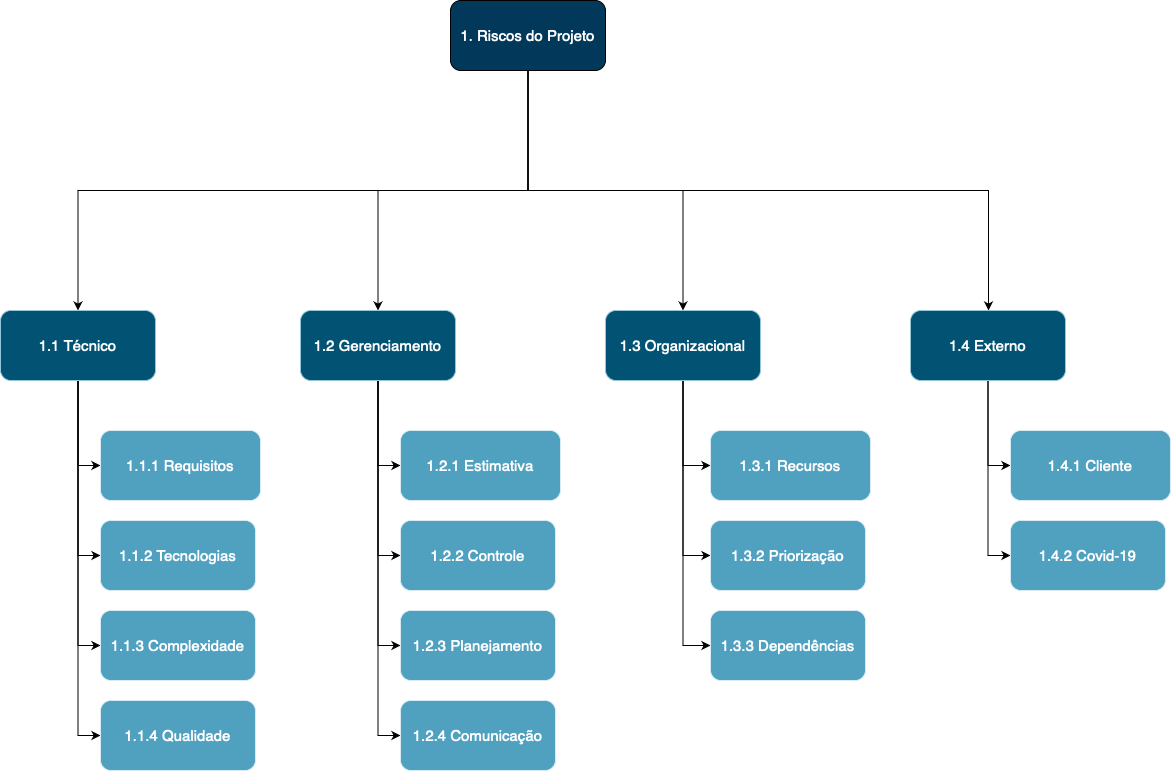
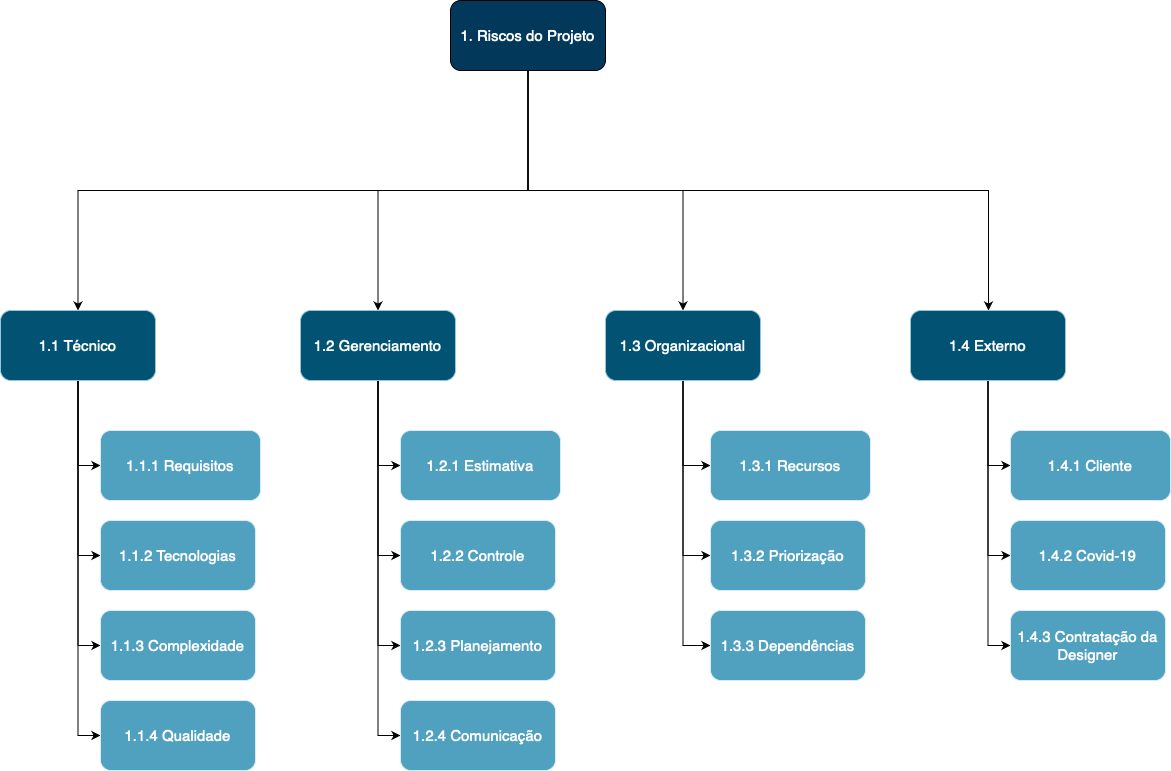
#90 - Update Risk Plan, Add BurnDown Risk charts

Changed region(s): [[0.8301, 0.7782, 1.0, 0.9027]]

diff --git a/docs/Project/RiskPlan.md b/docs/Project/RiskPlan.md
@@ -2,7 +2,8 @@
 
 |    Data    | Versão |                Descrição                |                     Autor                     |
 | :--------: | :----: | :-------------------------------------: | :-------------------------------------------: |
-| 13/09/2021 |  1.0   | Criação da primeira versão do documento do Plano de Gerenciamento de Riscos | [Lucas Fellipe](https://github.com/lucasfcm9) |
+| 13/08/2021 |  1.0   | Criação da primeira versão do documento do Plano de Gerenciamento de Riscos | [Lucas Fellipe](https://github.com/lucasfcm9) |
+| 09/09/2021 |  1.1   | Atualização da EAR e da identificação dos riscos | [Lucas Fellipe](https://github.com/lucasfcm9) |
 
 ## 1. Introdução
 
@@ -110,22 +111,24 @@ Risco <= 5: Baixo.
 | :--: | :----------------------------------------------------------- | :----------------------------------------------------------- | :----------------------------------------------------------- | :----------------------- |
 |  1   |        o projeto não atender aos requisitos propostos        | do levantamento de requisitos falho e falta de validação constante | atraso na entrega do produto final e redefinição dos requisitos |        Requisitos        |
 |  2   |           a tecnologia usada apresentar problemas            |                     do seu proprietário                      | atraso na entrega do produto final e troca de tecnologia equivalente |       Tecnologias        |
-|  3   | a equipe de desenvolvimento não se adaptar a tecnologia escolhida |  da falta de conhecimento ou da indisponibilidade da equipe  |               que o produto não será entregue                |       Complexidade       |
-|  4   |         houverem dificuldades em realizar os testes          |                   da falta de conhecimento                   |         atraso na entrega das histórias de usuários          |       Complexidade       |
-|  5   |                houver mudanças arquiteturais                 |               da falha na realização do escopo               | mais retrabalho, como alteração nas histórias de usuários planejadas, mudanças de infra e mudanças a nível de código |       Complexidade       |
-|  6   |                   houver mudança de escopo                   | da falha na realização do escopo e na elicitação dos requisitos |         refatoração dos requisitos e da documentação         |       Planejamento       |
-|  7   |          o produto final estiver em baixa qualidade          |                 da equipe de desenvolvimento                 |                refatoração de todo o produto                 |        Qualidade         |
-|  8   |   as atividades não forem concretizadas no prazo definido    |       da falta de integração dos integrantes da equipe       |                atraso na baseline do projeto                 | Estimativa/Dependências |
-|  9   |          houver histórias de usuário mal definidas           |             da falha de elicitação de requisitos             | atraso na entrega do produto final e necessidade de refatoração das histórias |        Estimativa        |
-|  10  |                 houver sprint mal planejada                  |                 de histórias mal planejadas                  | atraso na entrega do produto final, dificuldade de compreensão das histórias e necessidade de refatoração |  Estimativa/Priorização  |
-|  11  |            houver falta de comunicação da equipe             |                da indisponibilidade da equipe                | dificuldade no gerenciamento e falta de alinhamento da equipe |       Comunicação        |
-|  12  |           membros da equipe abandonarem o projeto            |             de desmotivação e indisponibilidade              |       sobrecarga entre os membros da equipe restantes        |         Recursos         |
-|  13  | a qualidade do *software* não atender as expectativas do cliente | má implementação e erros na parte de elicitação de requisitos | descontentamento do cliente e possibilidade de cancelamento do projeto |    Cliente/Qualidade     |
-|  14  |          houver perdas ou defeitos em equipamentos           |                       mal uso e roubos                       |                 atraso na entrega do projeto                 |         Recursos         |
-|  15  |               houver o cancelamento do projeto               |               da falta de interesse do cliente               |           interrupção e/ou cancelamento do projeto           |         Cliente          |
-|  16  |                     algum membro não poder participar das atividades e reuniões                      | de contrair a doença COVID-19                    |             Atraso na entrega das atividades       | Estimativa/Dependências
-|  17  | a equipe não conseguir automatizar o <i>deploy</i> e a integração contínua |        da falta de conhecimento ou indisponibilidade         |  atraso na entrega do produto final em ambiente de produção  |       Complexidade       |
-|  18  |          houver imaturidade na gerência do projeto           |     de negligências e abandono de integrantes da equipe      |  diminuição da qualidade do projeto e atraso das histórias   | Estimativa/Dependências  |
+|  3   | a equipe de desenvolvimento não se adaptar as tecnologias escolhidas |  da falta de conhecimento ou da indisponibilidade da equipe  |               que o produto não será entregue                |       Complexidade       |
+|  4   | o arquiteto não conseguir planejar e garantir a execução da arquitetura |  da falta de conhecimento das tecnologias do projeto  |               dificuldade na organização e atraso no desenvolvimento                |       Complexidade       |
+|  5   |         houver dificuldades em realizar os testes          |                   da falta de conhecimento                   |         atraso na entrega das histórias de usuários          |       Complexidade       |
+|  6   |                houver mudanças arquiteturais                 |               da falha na realização do escopo               | mais retrabalho, como alteração nas histórias de usuários planejadas, mudanças de infra e mudanças a nível de código |       Complexidade       |
+|  7   |                a equipe não conseguir automatizar o *deploy* e a integração contínua                 |               da falta de conhecimento               | atraso na entrega do produto em ambiente de produção |       Complexidade       |
+|  8  |                   houver mudança de escopo                   | da falha na realização do escopo e na elicitação dos requisitos |         refatoração dos requisitos e da documentação         |       Planejamento       |
+|  9   |          o produto final estiver em baixa qualidade          |                 da equipe de desenvolvimento                 |                refatoração de todo o produto                 |        Qualidade         |
+|  10   |   as atividades não forem concretizadas no prazo definido    |       da falta de integração dos integrantes da equipe       |                atraso na baseline do projeto                 | Estimativa/Dependências |
+|  11   |          houver histórias de usuário mal definidas           |             da falha de elicitação de requisitos             | atraso na entrega do produto final e necessidade de refatoração das histórias |        Estimativa        |
+|  12  |                 houver sprint mal planejada                  |                 de histórias mal planejadas                  | atraso na entrega do produto final, dificuldade de compreensão das histórias e necessidade de refatoração |  Estimativa/Priorização  |
+|  13  |            houver falta de comunicação da equipe             |                da indisponibilidade da equipe                | dificuldade no gerenciamento e falta de alinhamento da equipe |       Comunicação        |
+|  14  |           membros da equipe abandonarem o projeto            |             de desmotivação e indisponibilidade              |       sobrecarga entre os membros da equipe restantes        |         Recursos         |
+|  15  | a qualidade do *software* não atender as expectativas do cliente | má implementação e erros na parte de elicitação de requisitos | descontentamento do cliente e possibilidade de cancelamento do projeto |    Cliente/Qualidade     |
+|  16  |          houver perdas ou defeitos em equipamentos           |                       mal uso e roubos                       |                 atraso na entrega do projeto                 |         Recursos         |
+|  17  |               houver o cancelamento do projeto               |               da falta de interesse do cliente               |           interrupção e/ou cancelamento do projeto           |         Cliente          |
+|  18  |                     algum membro não poder participar das atividades e reuniões                      | de contrair a doença COVID-19                    |             Atraso na entrega das atividades       | Estimativa/Dependências
+|  19  |          não ocorrer a contratação d@ *Designer* para a realização do protótipo de alta fidelidade           |     de variáveis externas ou por não encontrar um profissional adequado dentro do prazo estipulado      |  atraso na entrega do produto e/ou interrupção do projeto   | Cliente/Dependências  |
+|  20  |          houver imaturidade na gerência do projeto           |     de negligências e abandono de integrantes da equipe      |  diminuição da qualidade do projeto e atraso das histórias   | Estimativa/Dependências  |
 
 
 
@@ -136,21 +139,27 @@ Risco <= 5: Baixo.
 |  1   | Muito Alto |  Muito Alta   |    25     | Revalidar todo os requisitos com o *Product Owner* e com o cliente | Realizar constantes reuniões com os integrantes da equipe, com o cliente e pesquisas necessárias para obtenção de conhecimento e compreensão sobre o escopo do projeto |
 |  2   | Muito Alto |     Baixa     |    10     |         Trocar para uma nova tecnologia equivalente          |             Escolher uma tecnologia com suporte              |
 |  3   |    Alto    |     Alta      |    16     | Indicar treinamentos para a equipe de desenvolvimento sobre a tecnologia escolhida | Estabelecer treinamentos constantes sobre a tecnologia escolhida |
-|  4   | Muito Alto |     Alta      |    20     | Indicar treinamentos para a equipe de desenvolvimento sobre testes |       Estabelecer treinamentos constantes sobre testes       |
-|  5   | Muito Alto |     Média     |    15     | Realizar a mudança de Arquitetura do projeto buscando outras tecnologias capazes de solucionar os problemas gerados | Buscar conhecimento com professores, alunos e pessoas fora do ambiente universitária, novas pesquisas e pensamentos críticos a respeito da arquitetura. |
-|  6   | Muito Alto |     Baixa     |    10     |    Redefinir o mais rápido possível as mudanças de escopo    |         Manter a comunicação constante com o cliente         |
-|  7   | Muito Alto |  Muito Alta   |    25     | Realizar a refatoração de código, testes e validação com o cliente | Realizar treinamentos de todas as tecnologias utilizadas, além de garantir a realização de testes, boas práticas de programação e validações constantes com o cliente |
-|  8   | Muito Alto |  Muito Alta   |    25     | Realizar a entrega das histórias na próxima <i>Sprint</i> como dívida técnica | Planejar as atividades de forma mais coerente e dividi-las nas *sprints* com base nos pesos e dificuldade definida no <i>Planning Poker</i> |
-|  9   |    Alto    |  Muito Alta   |    20     | Realizar uma refatoração das histórias para que entrem em conformidade com os requisitos pré-definidos | Realizar constantes reuniões entre os integrantes da equipe e o cliente e, além disso, realizar pesquisas necessárias para obtenção de conhecimento e compreensão sobre o escopo do projeto |
-|  10  |    Alto    |     Alta      |    16     | Realizar o replanejamento da <i>Sprint</i> utilizando a priorização do <i>Backlog</i> do Produto | Montar o <i>Backlog</i> da <i>Sprint</i> utilizando a priorização |
-|  11  | Muito Alto |     Alta      |    20     | Promover as mudanças necessárias, desde a realização de <i>Daily meetings</i> mais objetivas a mudanças de ferramentas para comunicação | Criando o plano de comunicação em que a equipe concorde totalmente |
-|  12  |    Alto    |  Muito Alta   |    20     | Realocar as tarefas pré-definidas entre os membros restantes | Conversar com a equipe a fim de reafirmar a importância do projeto para que a equipe o priorize |
-|  13  | Muito Alto |  Muito Alta   |    25     | Realizar a refatoração do código e dos testes e, além disso, validações com o cliente | Realizar treinamento de todas as tecnologias utilizadas, garantir a realização de testes, boas práticas de programação e validações com o cliente |
-|  14  |    Alto    |     Média     |    12     | Realocar as tarefas entre os membros da equipe que possuem equipamentos sem defeitos |      Incentivar a manutenção recorrente de equipamentos      |
-|  15  | Muito Alto |  Muito baixa  |     5     |  Oferecer a melhor possibilidade de produto para o cliente   |          Manter comunicação constante com o cliente          |
-|  16  | Muito Alto |     Média     |    15     |  Realocar as atividades entre os membros da equipe          |                                  Conversar com a equipe a fim de reatribuir todas as tarefas enquanto o(s) membro(s) está(ão) ausente(s)                           |
-|  17  |    Alto    |     Alta      |    16     | Procurar ajuda de professores, alunos e pessoas fora do ambiente universitário e aumentar o tempo de estudo | Realização de pesquisas constantes e consultoria com outros alunos, professores e pessoas fora do ambiente universitário |
-|  18  |    Alto    |     Média     |    12     | Conversar com os membros imaturos e mostrar que o projeto deve ser levado a sério | Manter o pensamento crítico e estratégico a respeito das métricas coletadas e realizando todos os rituais das metologias definidas |
+|  4   |    Crítico    |     Alta      |    16     | Realizar a mudança na arquitetura e buscar novas soluções | Buscar conhecimento na *internet*, com professores, alunos e/ou pessoas de fora da comunidade universitária |
+|  5   | Muito Alto |     Alta      |    20     | Indicar treinamentos para a equipe de desenvolvimento sobre testes |       Estabelecer treinamentos constantes sobre testes       |
+|  6   | Muito Alto |     Média     |    15     | Realizar a mudança de Arquitetura do projeto buscando outras tecnologias capazes de solucionar os problemas gerados | Buscar conhecimento com professores, alunos e pessoas fora do ambiente universitária, novas pesquisas e pensamentos críticos a respeito da arquitetura. |
+|  7  |    Alto    |     Alta      |    16     | Procurar ajuda de professores, alunos e pessoas fora do ambiente universitário e aumentar o tempo de estudo | Realização de pesquisas constantes e consultoria com outros alunos, professores e pessoas fora do ambiente universitário |
+|  8   | Muito Alto |     Baixa     |    10     |    Redefinir o mais rápido possível as mudanças de escopo    |         Manter a comunicação constante com o cliente         |
+|  9   | Muito Alto |  Muito Alta   |    25     | Realizar a refatoração de código, testes e validação com o cliente | Realizar treinamentos de todas as tecnologias utilizadas, além de garantir a realização de testes, boas práticas de programação e validações constantes com o cliente |
+|  10   | Muito Alto |  Muito Alta   |    25     | Realizar a entrega das histórias na próxima <i>Sprint</i> como dívida técnica | Planejar as atividades de forma mais coerente e dividi-las nas *sprints* com base nos pesos e dificuldade definida no <i>Planning Poker</i> |
+|  11   |    Alto    |  Muito Alta   |    20     | Realizar uma refatoração das histórias para que entrem em conformidade com os requisitos pré-definidos | Realizar constantes reuniões entre os integrantes da equipe e o cliente e, além disso, realizar pesquisas necessárias para obtenção de conhecimento e compreensão sobre o escopo do projeto |
+|  12  |    Alto    |     Alta      |    16     | Realizar o replanejamento da <i>Sprint</i> utilizando a priorização do <i>Backlog</i> do Produto | Montar o <i>Backlog</i> da <i>Sprint</i> utilizando a priorização |
+|  13  | Muito Alto |     Alta      |    20     | Promover as mudanças necessárias, desde a realização de <i>Daily meetings</i> mais objetivas a mudanças de ferramentas para comunicação | Criando o plano de comunicação em que a equipe concorde totalmente |
+|  14  |    Alto    |  Muito Alta   |    20     | Realocar as tarefas pré-definidas entre os membros restantes | Conversar com a equipe a fim de reafirmar a importância do projeto para que a equipe o priorize |
+|  15  | Muito Alto |  Muito Alta   |    25     | Realizar a refatoração do código e dos testes e, além disso, validações com o cliente | Realizar treinamento de todas as tecnologias utilizadas, garantir a realização de testes, boas práticas de programação e validações com o cliente |
+|  16  |    Alto    |     Média     |    12     | Realocar as tarefas entre os membros da equipe que possuem equipamentos sem defeitos |      Incentivar a manutenção recorrente de equipamentos      |
+|  17  | Muito Alto |  Muito baixa  |     5     |  Oferecer a melhor possibilidade de produto para o cliente   |          Manter comunicação constante com o cliente          |
+|  18  | Muito Alto |     Média     |    15     |  Realocar as atividades entre os membros da equipe          |                                  Conversar com a equipe a fim de reatribuir todas as tarefas enquanto o(s) membro(s) está(ão) ausente(s)                           |
+|  19  | Muito Alto |     Muito Alta     |    25     |  A equipe elaborar o protótipo de alta fidelidade                           | - 
+|  20  |    Alto    |     Média     |    12     | Conversar com os membros imaturos e mostrar que o projeto deve ser levado a sério | Manter o pensamento crítico e estratégico a respeito das métricas coletadas e realizando todos os rituais das metologias definidas |
+
+
+## 7. BurnDown de Riscos
+<iframe src="https://docs.google.com/spreadsheets/d/e/2PACX-1vTVH-Hl8czZKyUT7gAHaDADz76NQitwQn_dY24aJyR1hXXX4e4MAtM79dLgpTEabqA-Nibz6YKRlhtm/pubhtml" width="170px" height="600px"></iframe>
 
 
 

diff --git a/docs/Sprints/Sprint1/04092021Sprint1Closure.md b/docs/Sprints/Sprint1/04092021Sprint1Closure.md
@@ -1,0 +1,121 @@
+# Resultados da Sprint 1
+
+|    Data    | Versão |         Descrição         |           Autor(es)           |
+| :--------: | :----: | :-----------------------: | :---------------------------: |
+| 04/09/2021 |  1.0   | Resultados da *Sprint* 1 | [Iuri Severo](https://github.com/iurisevero) |
+
+**Data**: 04 de Setembro de 2021
+
+**Redigida por**: Iuri Severo
+
+**Participantes**: 
+* Gabriel Freitas (MDS)
+* Iuri Severo (EPS)
+* João Pedro (EPS)
+* Lucas Fellipe (EPS)
+* Natan Tavares (MDS)
+* João Victor (MDS)
+* Paulo Henrique (MDS)
+* Pedro Rodrigues (EPS)
+
+
+## Fechamento da Sprint
+
+| Issue | Pontos | Status |
+| ----- | ------ | ------ |
+| [ES02US02 - Eu, como usuário, desejo enviar registro de peixes para o servidor, a fim de realizar a coleta de dados](https://github.com/fga-eps-mds/2021.1-Pro-Especies-Docs/issues/60) | 3 | Concluída |
+| [ES04US03 - Eu, como usuário, desejo visualizar um registro selecionado, a fim de realizar a coleta de dados](https://github.com/fga-eps-mds/2021.1-Pro-Especies-Docs/issues/61) | 1 | Concluída |
+| [ES06US01 - Eu, como usuário, desejo editar ou remover dados do registro, a fim de aumentar a confiabilidade da coleta de dados](https://github.com/fga-eps-mds/2021.1-Pro-Especies-Docs/issues/62) | 3 | Concluída |
+| [E08US02 - Eu, como usuário, desejo acessar o mapa (localização geográfica), a fim de descobrir novas espécies e realizar coleta de dados](https://github.com/fga-eps-mds/2021.1-Pro-Especies-Docs/issues/63) | 3 | Concluída |
+| [E08US03 - Eu, como usuário, desejo salvar minha localização marcada no mapa, a fim de ajudar na coleta de dados](https://github.com/fga-eps-mds/2021.1-Pro-Especies-Docs/issues/71) | 3 | Concluída |
+| [Definir licença e criar uma tabela explicando cada uma](https://github.com/fga-eps-mds/2021.1-Pro-Especies-Docs/issues/69) | 0 | Concluída |
+| Documentar Planning *Sprint* 2 e Fechamento da *Sprint* 1 | 0 | Concluída |
+| [Elaborar NFR](https://github.com/fga-eps-mds/2021.1-Pro-Especies-Docs/issues/68) | 0 | Concluída |
+| [Revisão do diagrama de Casos de Uso](https://github.com/fga-eps-mds/2021.1-Pro-Especies-Docs/issues/67) | 0 | Concluída |
+| [Configuração do SonarQube no *Frontend*](https://github.com/fga-eps-mds/2021.1-Pro-Especies-Docs/issues/47) | 0 | Concluída |
+| [Criação do repositório e ambiente de configuração de registro de peixes no GitHub] | 0 | Concluída |
+| [Elaborar GQM (*Goal Question Metric*)] | 0 | Não Concluída |
+
+__Pontos Planejados:__ 13 </br>
+__Pontos Totais Concluídos:__ 13 </br>
+[Milestone Sprint 1](https://github.com/fga-eps-mds/2021.1-Pro-Especies-Docs/milestone/5)
+
+## Review
+
+* **Daniel Coimbra**: Contribuiu com o repositório do *Fishlog* e trabalhou na *issue* de *Update* e *Delete* dos registros. Aprendeu *typescript*, agradeceu o Batista e o Nathan por terem ajudado ele. O benefício que essa issue traz para o projeto é a liberdade do usuário e, principalmente, o pesquisador ter o *CRUD* dos registros, para ajudá-los a manipular os dados.
+
+* **Gabriel Freitas**: Mexeu com *Flutter* e com a integração do mapa (localização). Foi divertido, difícil, mas divertido. A parte do *Frontend* é importante por permitir a interação do usuário com o aplicativo.
+
+* **Iuri Severo**: 
+
+* **João Pedro**: Ficou focado na questão da arquitetura. Atualizou os repositórios, serviços e o próprio documento de arquitetura. Mexeu com o *Sonarflutter* e conseguiu fazer funcionar no ambiente local. Isso não afeta muito o cliente diretamente, mas é importante para nossa avaliação na *Release* 1.
+
+* **João Victor**: Participou e elaborou as *issues* juntamente ao Natan e ao Daniel. *Issue* responsável pelo *CRUD* dos registros e escreveu as US designadas. O CRUD traz valor porque é a base dos dados que serão manipulados no projeto e as US's são importantes, porque são a base da organização do nosso projeto.
+
+* **Lucas Fellipe**: 
+
+* **Natan Tavares**: 
+
+* **Paulo Henrique**: Participou do desenvolvimento das primeiras partes do *Frontend*. Configurou o acesso ao mapa, o que foi muito trabalhoso. Foram quase 3 dias de configuração antes de conseguir ir para o código em si. Ajudou o Freitas com a *issue dele*, referente a clicar no mapa. Aprendeu bastante coisa. O valor que isso traz para o cliente é a visualização da localização para o registro e a possibilidade de marcar essa posição ao criá-lo.
+
+* **Pedro Rodrigues**: Começou o documento de GQM junto com o Lucas. O GQM contribui para o projeto para dar base para medição de qualidade do projeto. Essa semana não conseguiu contribuir muito, pois estava organizando coisas pessoais, o que não influencia direto para o cliente, mas auxilia no desenvolvimento da aplicação.
+
+### Gráfico de Burn-Down
+O gráfico de burndown demonstra a entrega de pontos durante os dias da *Sprint*.
+</br>
+
+![BurndownSprint1](../../Assets/Images/BurndownCharts/BurndownSprint1.png)
+
+
+### Gráfico de Velocity
+
+![VelocitySprint1](../../Assets/Images/VelocityCharts/VelocitySprint1.png)
+
+
+## Retrospective
+
+* **Daniel Coimbra**
+    * Positivos: O Nathan e o Batista sabem muito de Typescript e Node, o que ajudou muito no desenvolvimento da *issue*;
+    * Negativos: Estava despreparado por não saber a tecnologia e não conseguiu parear na maior parte da *sprint*;
+    * Melhorias: Se organizar melhor para conseguir ser mais produtivo no decorrer da semana.
+* **Gabriel Freitas**
+    * Positivos: O Paulo e o João Pedro ajudaram muito na elaboração da *issue*; 
+    * Negativos: Para mim mesmo, parar de ter preguiça de ler documentação em inglês, ler com atenção;
+    * Melhorias: Sem melhorias.
+* **Iuri Severo**
+    * Positivos: 
+    * Negativos: 
+    * Melhorias: 
+* **João Pedro**
+    * Positivos: Todas as US's fechadas. A divisão de tarefas está legal. Conseguiram escrever as US's sozinhos o que também é bom. Sonarflutter funcionando localmente, o que permite continuarmos usando Flutter como tecnologia;
+    * Negativos: Pessoal atrasando para reuniões, prestar atenção no tempo;
+    * Melhorias: Tentar avisar quando for faltar reunião e focar mais nos horários (pontualidade).
+* **João Victor**
+    * Positivos: Senti que a realização de todas as US's nessa *sprint* foram mais organizadas que *sprint* passada. Todo mundo participou das issues. Senti que tive um aprendizado em relação as tecnologias de *Backend*;
+    * Negativos: Distribuição do trabalho em relação ao pareamento. O Nathan fez mais coisas que eu e o Daniel, na parte de codificar e decodificar o *token*, o que prejudicou meu acesso a esse conhecimento;
+    * Melhorias: Avisar o Natan quando ele tiver fazendo muita coisa.
+* **Lucas Fellipe**
+    * Positivos: 
+    * Negativos: 
+    * Melhorias: 
+* **Natan Tavares**
+    * Positivos: 
+    * Negativos: 
+    * Melhorias: 
+* **Paulo Henrique**
+    * Positivos: Entendi melhor como funcionam as configurações do Android e do IOS no *Flutter*. Aprendi como ensinar melhor no pareamento com o Freitas;
+    * Negativos: Dificuldade em expressar o que estou pensando;
+    * Melhorias: Melhorar minha comunicação e minha paciência.
+* **Pedro Rodrigues**
+    * Positivos: A equipe está mandando muito bem. É muito bom ver a galera trabalhando, dá bastante orgulho. Além disso, já tivemos algumas *sprints* e não tivemos divida técnica e só aconteceu de fechar *issue* em cima da hora uma vez, o que é bastante bom;
+    * Negativos: Não tenho pontos negativos em relação ao time;
+    * Melhorias: Estou me organizando melhor, mas ainda está um pouco difícil. Às vezes assumo mais responsabilidades do que consigo resolver.
+
+
+## Quadro de Conhecimento
+A equipe de EPS elaborou um quadro de conhecimento com tecnologias consideradas essenciais para o desenvolvimento do produto. É possível ter um *overview* das capacidades da equipe de desenvolvimento (MDS) e gerência (EPS).
+
+<iframe src="https://docs.google.com/spreadsheets/d/e/2PACX-1vSHxsHZdF7aMhOiXfcXzaHDSFw3ABg2JLZFkUhKZ2YRlrnpeho33t196CHZIWyUXhRp2-MjVymqEp4a/pubhtml" width="170px" height="600px"></iframe>
+
+
+## Avaliação do Scrum Master

diff --git a/docs/Sprints/Sprint1/30082021Sprint1Opening.md b/docs/Sprints/Sprint1/30082021Sprint1Opening.md
@@ -34,7 +34,7 @@
 | Descrição da Tarefa | Responsável(eis) | Pontuação | Débito Técnico |
 | ------------------- | ---------------- | --------- | -------------- |
 | ES02US02 - Eu, como usuário, desejo enviar registro de peixes para o servidor, a fim de realizar a coleta de dados  | Natan Tavares, João Victor e Daniel Coimbra | 3 | 0 |
-| ES04US03 - Eu, como usuário, desejo visualizar registro selecionado, a fim de realizar a coleta de dados | Natan Tavares, João Victor e Daniel Coimbra | 1 | 0 |
+| ES04US03 - Eu, como usuário, desejo visualizar um registro selecionado, a fim de realizar a coleta de dados | Natan Tavares, João Victor e Daniel Coimbra | 1 | 0 |
 | ES06US01 - Eu, como usuário, desejo editar ou remover dados do registro, a fim de aumentar a confiabilidade da coleta de dados | Natan Tavares, João Victor e Daniel Coimbra | 3 | 0 |
 | E08US02 - Eu, como usuário, desejo acessar o mapa (localização geográfica), a fim de descobrir novas epécies e realizar coleta de dados | Paulo Henrique e Gabriel Freitas | 3 | 0 |
 | E08US03 - Marcar a localização do usuário no mapa | Paulo Henrique e Gabriel Freitas | 3 | 0 |

diff --git a/docs/Sprints/Pré-Sprints/14082021PréSprint0Closure.md b/docs/Sprints/Pré-Sprints/14082021PréSprint0Closure.md
@@ -35,6 +35,9 @@
 
 <p align="justify"> &emsp;&emsp;Esse documento refere-se a retrospectiva das atividades realizadas na semana pós <i>Lean Inception</i>. Aqui vamos destacar os principais pontos positivos e pontos negativos que foram listados durante a semana, além das melhorias que devem ser aplicadas para as próximas semanas e quando iniciarmos as <i>sprints</i>.</p>
 
+### Gráfico de BurnDown de Riscos
+![BurnDownRiskPréSprint0](../../Assets/Images/RiskBurnDownCharts/RiskBurnDownPréSprint0.png)
+
 ## Pré-Sprint Retrospective
 
 * **Daniel Coimbra**

diff --git a/docs/Sprints/Pré-Sprints/21082021PréSprint1Closure.md b/docs/Sprints/Pré-Sprints/21082021PréSprint1Closure.md
@@ -30,6 +30,9 @@
 
 [Milestone Pré-Sprint 1](https://github.com/fga-eps-mds/2021.1-Pro-Especies-Docs/milestone/3?closed=1)
 
+### Gráfico de BurnDown de Riscos
+![BurnDownRiskPréSprint0](../../Assets/Images/RiskBurnDownCharts/RiskBurnDownPréSprint0.png)
+
 ## Review
 
 * **Daniel Coimbra**: Trabalhou no documento de visão, parte interessada e de usuário. Acredita que o documento é importante para o produto por trazer uma maneira formal de representá-lo. Participou da reunião do PBB.

diff --git a/docs/Sprints/Sprint0/28082021Sprint0Closure.md b/docs/Sprints/Sprint0/28082021Sprint0Closure.md
@@ -77,6 +77,10 @@ O gráfico de burndown demonstra a entrega de pontos durante os dias da *Sprint*
 ![VelocitySprint0](../../Assets/Images/VelocityCharts/VelocitySprint0.png)
 
 
+### Gráfico de BurnDown de Riscos
+![BurnDownRiskSprint0](../../Assets/Images/RiskBurnDownCharts/RiskBurnDownSprint0.png)
+
+
 ## Retrospective
 
 * **Daniel Coimbra**
